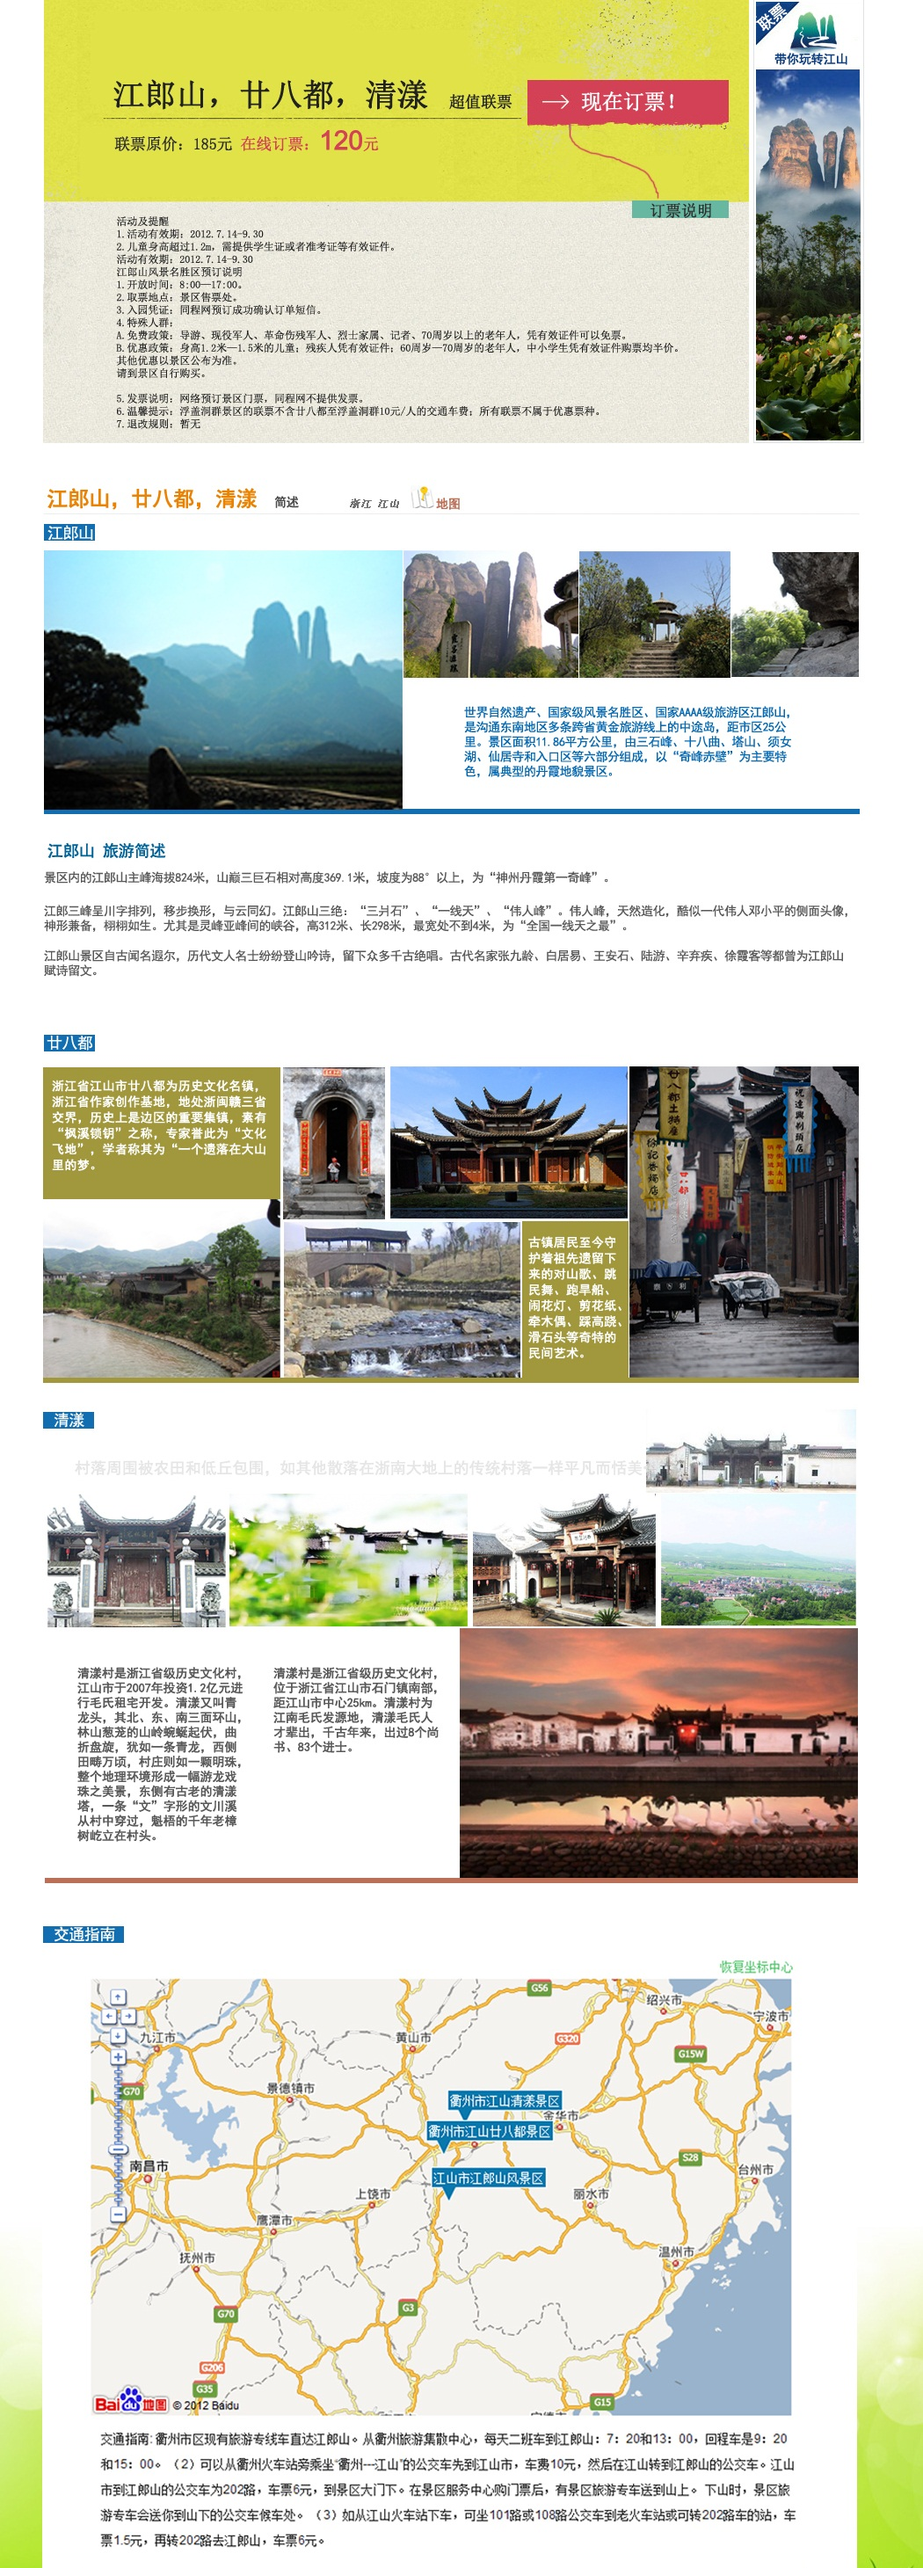
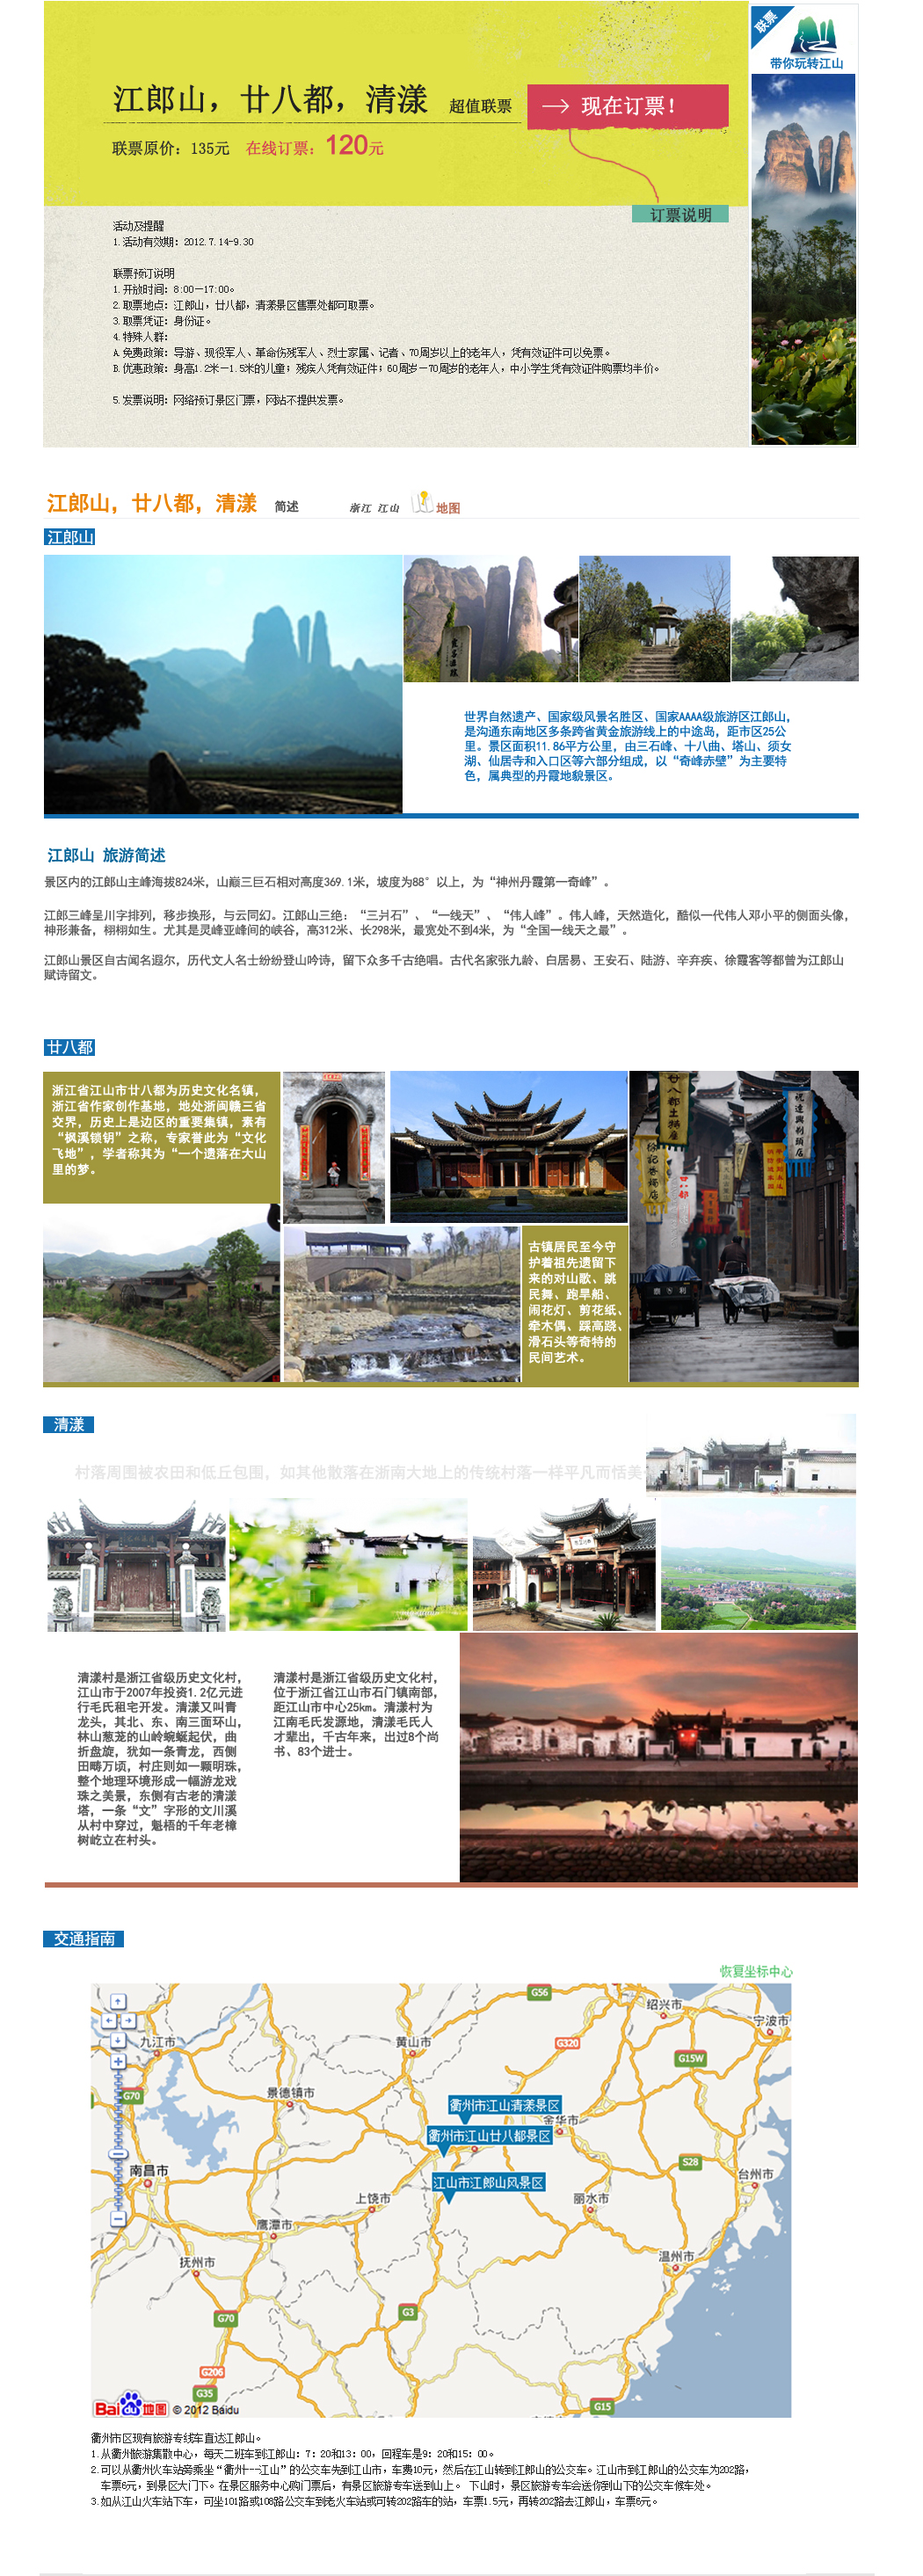
联票图片. 增加手机版的母板页

diff --git a/WEB/mobile.master.cs b/WEB/mobile.master.cs
@@ -1,0 +1,14 @@
+using System;
+using System.Collections.Generic;
+using System.Linq;
+using System.Web;
+using System.Web.UI;
+using System.Web.UI.WebControls;
+
+public partial class mobile : System.Web.UI.MasterPage
+{
+    protected void Page_Load(object sender, EventArgs e)
+    {
+
+    }
+}
